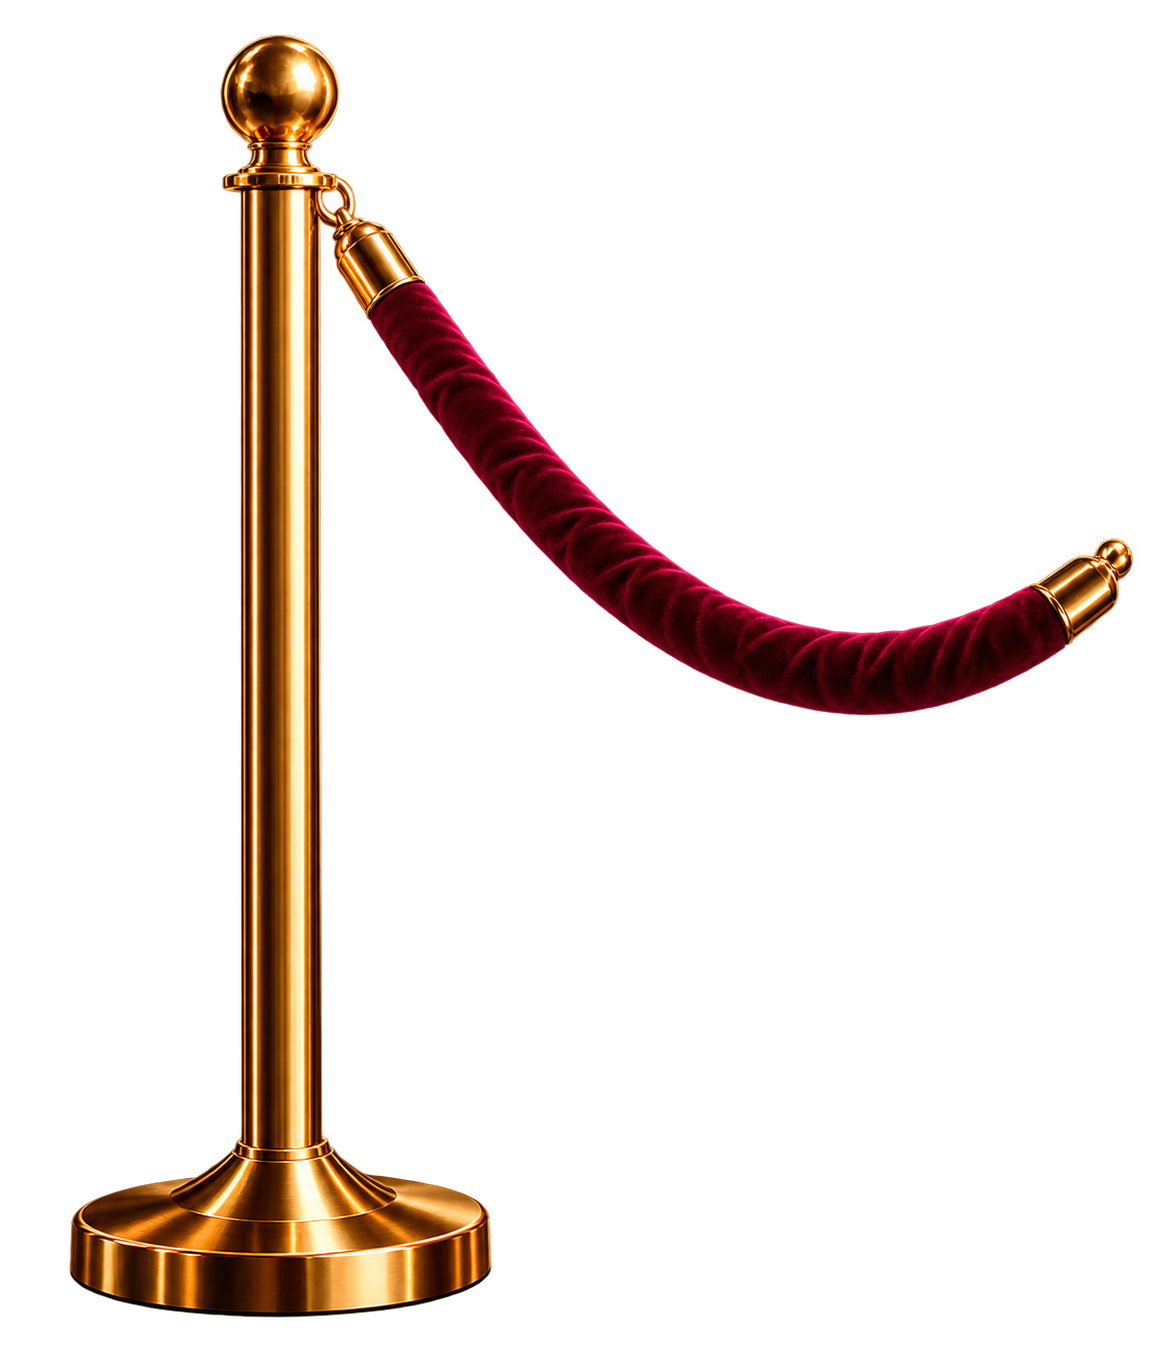
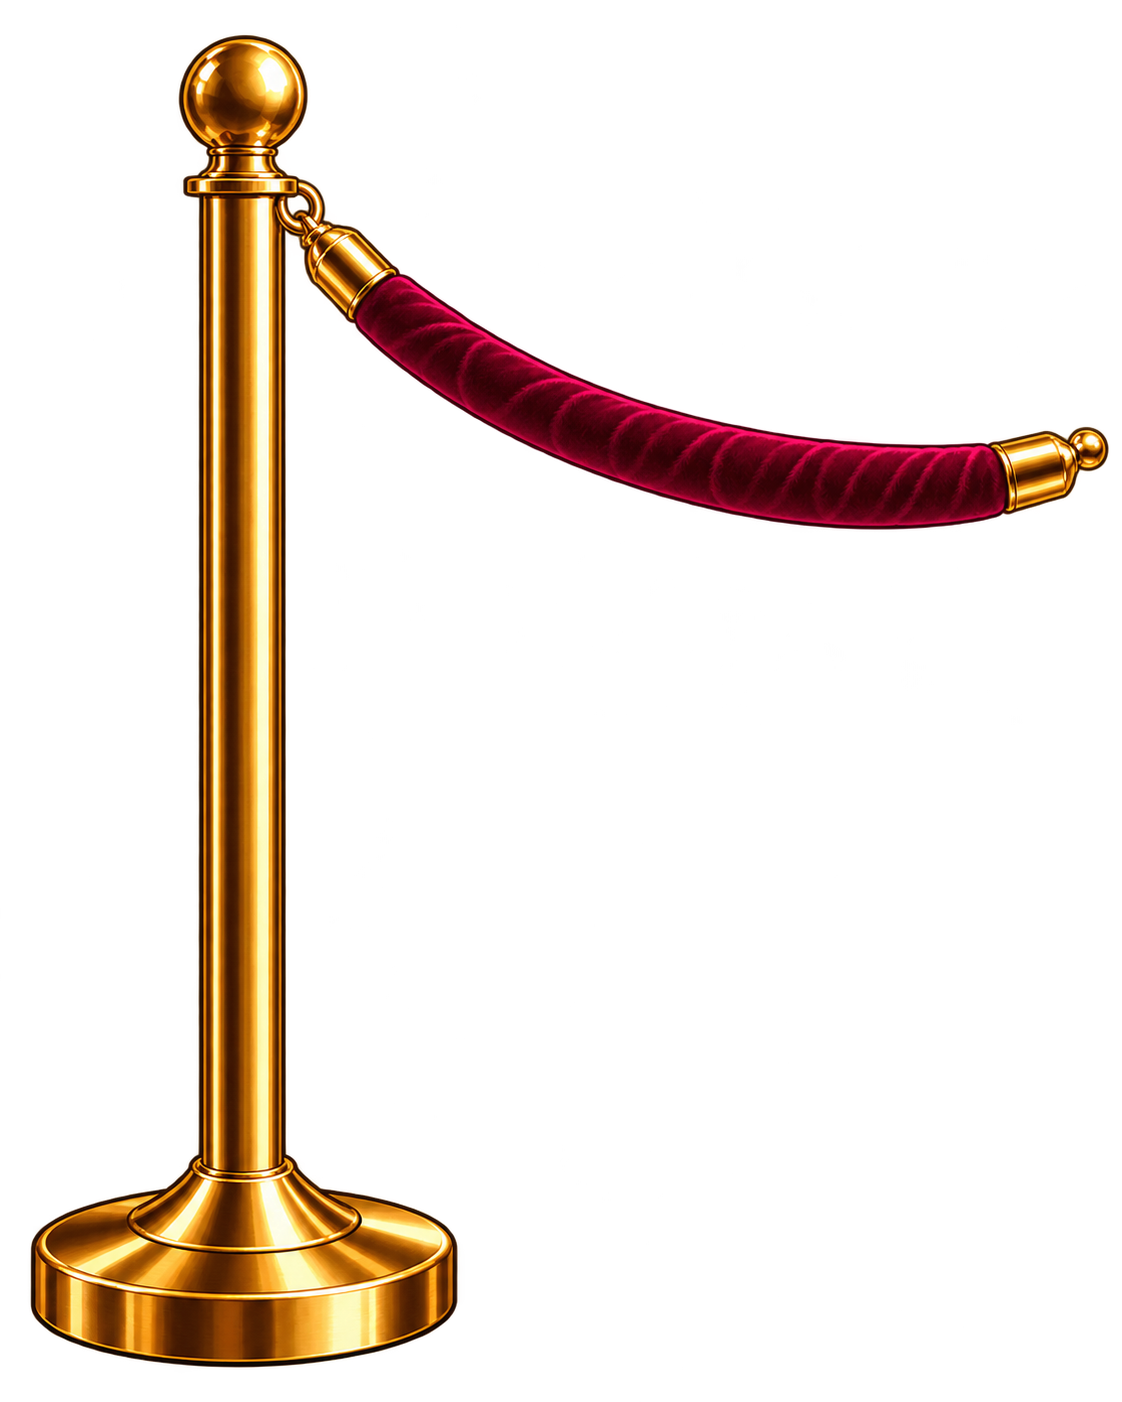
feat: bigger bodyguard and plants, new stanchion asset, wider and lower slot, smaller woman

Changed region(s): [[0.0, 0.0, 0.9982, 0.989]]

diff --git a/frontend/apps/poc/src/game/loungeCharacters/propLayout.ts b/frontend/apps/poc/src/game/loungeCharacters/propLayout.ts
@@ -17,7 +17,7 @@ export type PropAnchor = { x: number; y: number; h: number; flip?: boolean };
 export const PROP_GROUND: Record<PropId | 'stanchion', { ax: number; ay: number; w: number; h: number; hScale: number }> = {
 	plant: { ax: 0.516, ay: 0.866, ...PROP_FRAME.plant, hScale: 1 },
 	guard: { ax: 0.543, ay: 0.907, ...PROP_FRAME.guard, hScale: 1 },
-	stanchion: { ax: 0.242, ay: 0.968, w: 1158, h: 1359, hScale: 1 },
+	stanchion: { ax: 0.215, ay: 0.976, w: 1122, h: 1402, hScale: 1 },
 };
 
 export const propBox = (kind: PropId | 'stanchion', a: PropAnchor) => {
@@ -41,28 +41,26 @@ export const propBox = (kind: PropId | 'stanchion', a: PropAnchor) => {
 export const STAGE_TOP_SHARE = 0.1;
 
 /** Bodyguard: stands on the floor left of the carpet. */
-export const INTRO_GUARD: PropAnchor = { x: 0.235, y: 0.77, h: 0.598 };
+export const INTRO_GUARD: PropAnchor = { x: 0.235, y: 0.809, h: 0.688 };
 
 /**
  * The two animated plants stand in the foreground: the left one right behind the bodyguard, the right
  * one at the foot of the right column (the painted plants in the doorway stay as they are).
  */
 export const INTRO_PLANTS: PropAnchor[] = [
-	{ x: 0.205, y: 0.775, h: 0.36 },
-	{ x: 0.925, y: 0.775, h: 0.36, flip: true },
+	{ x: 0.205, y: 0.775, h: 0.414 },
+	{ x: 0.925, y: 0.775, h: 0.414, flip: true },
 ];
 
 /**
  * Velvet-rope stanchion over the right plant. Its pole passes through the pot, left of the pot's centre
- * (x = the pot's highlight); the rope runs towards the middle of the screen (mirrored artwork).
+ * (x = the pot's highlight); the rope runs off the right edge. The base sits below the window's bottom
+ * edge (0.775), so it is cut slightly.
  */
-export const INTRO_STANCHION: PropAnchor = { x: 0.9175, y: 0.766, h: 0.34, flip: true };
-
-/** Darker and a little warmer than the drawn plant, to sit in the dim, red-lit foyer. */
-export const INTRO_PLANT_TONE = 'brightness(0.58) saturate(0.88) contrast(1.06) sepia(0.12)';
+export const INTRO_STANCHION: PropAnchor = { x: 0.9175, y: 0.8, h: 0.4 };
 
 /** Plants in the slot scene, fractions of the play area (just in front of the balustrade, behind the characters and the board). */
 export const SCENE_PLANTS: PropAnchor[] = [
-	{ x: 0.125, y: 0.67, h: 0.477 },
-	{ x: 0.975, y: 0.67, h: 0.477, flip: true },
+	{ x: 0.1, y: 0.67, h: 0.477 },
+	{ x: 0.955, y: 0.67, h: 0.477, flip: true },
 ];

diff --git a/frontend/apps/poc/src/components/skyjump_v2/SkyJumpV2Board.svelte b/frontend/apps/poc/src/components/skyjump_v2/SkyJumpV2Board.svelte
@@ -214,22 +214,22 @@
 	 * y = 0) and the summary tile hangs under the grid. The board is as large as that allows.
 	 */
 	/**
-	 * Slot size: 25 % larger than the previous 435 px grid (the summary tile under it is gone, so the
+	 * Slot size: 490 px grid height (10 % less than the 544 px pass, itself 25 % over the original 435 px) and cells 10 % wider (aspect 1.247) (the summary tile under it is gone, so the
 	 * whole height down to the BetUI is free).
 	 */
-	const BOARD_GRID_H = 544;
+	const BOARD_GRID_H = 490;
 	const maxBoardH = $derived(px(BOARD_GRID_H));
 	/**
 	 * The larger frame is raised by this many px @1280x720 (its crest runs over the top edge) so the
 	 * last row ends at the BetUI instead of behind it.
 	 */
-	const BOARD_RISE = 45;
+	const BOARD_RISE = -15;
 	const availH = $derived(Math.max(120, maxBoardH + framePadEstimate * 2 + 4));
 	const FRAME_BORDER = 2;
 	const framePadEstimate = $derived(Math.max(12, Math.min(15, Math.round(availW * 0.013))));
 	const gap = $derived(Math.max(5, Math.min(10, Math.round(availW * 0.0095))));
 	const framePad = $derived(Math.max(12, Math.min(15, Math.round(availW * 0.013))));
-	const BOARD_ASPECT = 1.02;
+	const BOARD_ASPECT = 1.247;
 	const maxInnerW = $derived(Math.max(100, availW - framePad * 2 - FRAME_BORDER * 2));
 	const maxInnerH = $derived(Math.max(80, availH - framePad * 2 - FRAME_BORDER * 2));
 	const fitCellW = $derived(Math.max(22, Math.floor((maxInnerW - gap * 4) / 5)));

diff --git a/frontend/apps/poc/src/game/loungeCharacters/config.ts b/frontend/apps/poc/src/game/loungeCharacters/config.ts
@@ -119,10 +119,10 @@ export type CharacterPlacement = {
 };
 
 export const CHARACTER_PLACEMENT: Record<CharacterId, CharacterPlacement> = {
-	woman: { heightFrac: 0.884, centerXFrac: 0.84, bottomFrac: 0.98 },
+	woman: { heightFrac: 0.751, centerXFrac: 0.858, bottomFrac: 0.98 },
 	// Placed from the first animation frame: the bartender's drink stops at the slot's left edge (his
 	// tray may reach over it); the woman's foot may reach over the slot's right edge, her face never.
-	bartender: { heightFrac: 0.86, centerXFrac: 0.155, bottomFrac: 0.93 },
+	bartender: { heightFrac: 0.86, centerXFrac: 0.1305, bottomFrac: 0.93 },
 };
 
 /** Source frame size per character (bartender V3 is 562x748, woman 554x740). */

diff --git a/frontend/apps/poc/src/components/MidnightLoungeIntro.svelte b/frontend/apps/poc/src/components/MidnightLoungeIntro.svelte
@@ -7,8 +7,7 @@
 	import {
 		INTRO_GUARD,
 		INTRO_PLANTS,
-		INTRO_PLANT_TONE,
-		INTRO_STANCHION,
+			INTRO_STANCHION,
 		propBox,
 	} from '../game/loungeCharacters/propLayout';
 	import LoopingProp from './skyjump/LoopingProp.svelte';
@@ -116,7 +115,6 @@
 				rate={0.5}
 				z={1}
 				sharp
-				tone={INTRO_PLANT_TONE}
 			/>
 		{/each}
 		<LoopingProp prop="guard" {...propBox('guard', INTRO_GUARD)} z={2} sharp />
